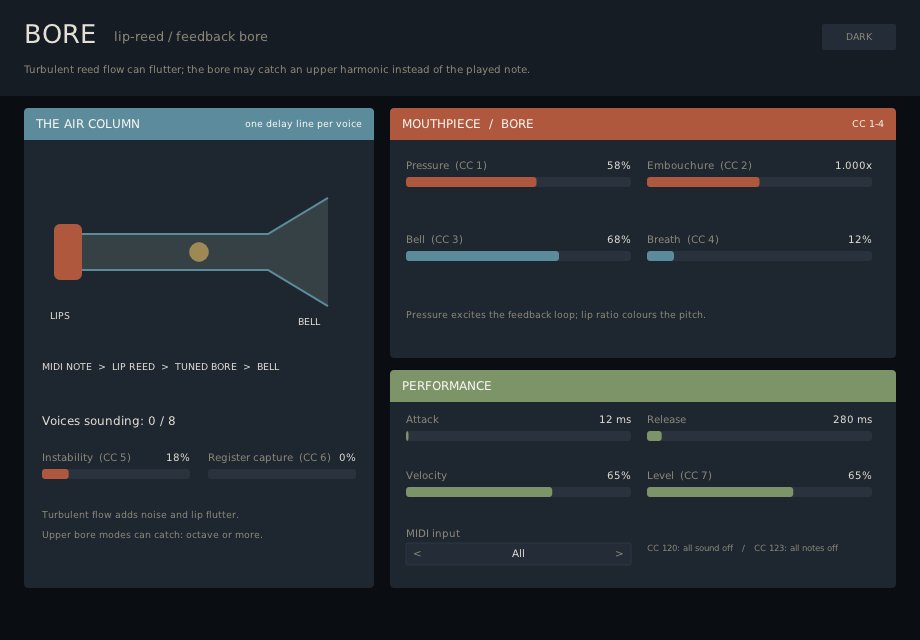
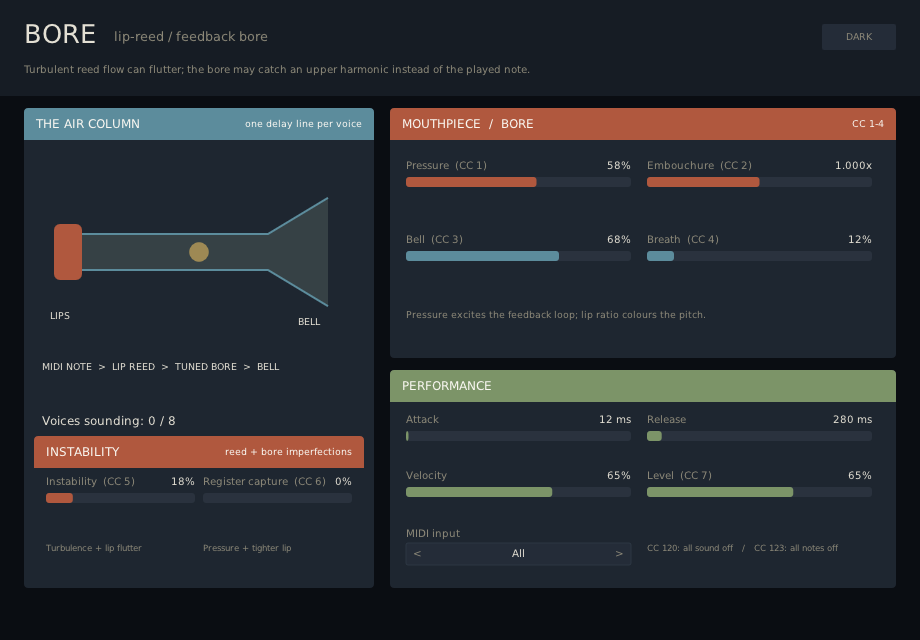
tweaks

Changed region(s): [[0.0304, 0.6562, 0.3957, 0.875], [0.2739, 0.8438, 0.3043, 0.875]]

diff --git a/plugins/bore/src/bore_engine.cpp b/plugins/bore/src/bore_engine.cpp
@@ -114,6 +114,10 @@ void Engine::noteOn(const int note, const int velocity, const std::uint8_t chann
     voice.boreFilter = 0.0f;
     voice.breathFilter = 0.0f;
     voice.flutterFilter = 0.0f;
+    voice.reedOpening = 0.48f;
+    voice.previousFlow = 0.0f;
+    voice.flowHighpass = 0.0f;
+    voice.flowInitialized = false;
     voice.lipPhase = 0.0;
     voice.writeIndex = 0;
     voice.samplesWritten = 0;
@@ -147,6 +151,10 @@ void Engine::allSoundOff(const std::uint8_t channel) noexcept
         voice.boreFilter = 0.0f;
         voice.breathFilter = 0.0f;
         voice.flutterFilter = 0.0f;
+        voice.reedOpening = 0.48f;
+        voice.previousFlow = 0.0f;
+        voice.flowHighpass = 0.0f;
+        voice.flowInitialized = false;
         voice.writeIndex = 0;
         voice.samplesWritten = 0;
     }
@@ -236,6 +244,9 @@ void Engine::renderSegment(float* const left, float* const right, const std::uin
         const float boreCoefficient = onePoleCoefficient(cutoff, sr);
         const float breathCoefficient = onePoleCoefficient(static_cast<float>(std::min(7000.0, sr * 0.35)), sr);
         const float flutterCoefficient = onePoleCoefficient(static_cast<float>(std::min(12.0, sr * 0.1)), sr);
+        const float flutterNormalization = std::sqrt(3.0f * (2.0f - flutterCoefficient) / flutterCoefficient);
+        const float reedOpeningCoefficient = onePoleCoefficient(static_cast<float>(std::min(1800.0, sr * 0.35)), sr);
+        const float flowBlockerCoefficient = 1.0f - onePoleCoefficient(static_cast<float>(std::min(5.0, sr * 0.1)), sr);
         float sample = 0.0f;
 
         for (Voice& voice : voices_) {
@@ -270,10 +281,10 @@ void Engine::renderSegment(float* const left, float* const right, const std::uin
             const float airNoise = noise(voice.random);
             voice.breathFilter += breathCoefficient * (airNoise - voice.breathFilter);
             voice.flutterFilter += flutterCoefficient * (airNoise - voice.flutterFilter);
-            const float flutter = reedInstability_ * (0.08f * voice.flutterFilter + 0.025f * voice.breathFilter);
-            const double registerRatio = 1.0 + 3.0 * static_cast<double>(registerCapture_);
+            const float slowFlutter = voice.flutterFilter * flutterNormalization;
+            const float flutter = reedInstability_ * (0.035f * slowFlutter + 0.012f * voice.breathFilter);
             const double lipFrequency = std::min(frequency * static_cast<double>(embouchure_) *
-                                                     registerRatio * (1.0 + static_cast<double>(flutter)),
+                                                     (1.0 + static_cast<double>(flutter)),
                                                  sr * 0.45);
             const float lip = static_cast<float>(std::sin(voice.lipPhase));
             voice.lipPhase += 2.0 * kPi * lipFrequency / sr;
@@ -282,17 +293,35 @@ void Engine::renderSegment(float* const left, float* const right, const std::uin
             const float drive = 1.0f + pressure_ * 5.0f;
             const float mouthPressure = pressure_ * voice.velocity;
             const float borePressure = std::clamp(voice.boreFilter * 2.0f, 0.0f, mouthPressure);
-            const float aperture = std::clamp(0.48f + 0.36f * lip +
-                                                  reedInstability_ * 0.12f * voice.flutterFilter,
-                                              0.02f, 0.98f);
+            const float pressureDrive = std::clamp((mouthPressure - 0.18f) / 0.55f, 0.0f, 1.0f);
+            const float embouchureDrive = std::clamp((embouchure_ - 0.8f) / 0.4f, 0.0f, 1.0f);
+            const float captureDrive = registerCapture_ * pressureDrive * embouchureDrive;
+            const float reedRestOpening = 0.48f - 0.18f * captureDrive;
+            const float reedOpeningDepth = 0.36f + 0.52f * captureDrive;
+            const float targetOpening = std::clamp(reedRestOpening + reedOpeningDepth * lip +
+                                                       reedInstability_ * 0.1f * slowFlutter,
+                                                   0.02f, 0.98f);
+            voice.reedOpening += reedOpeningCoefficient * (targetOpening - voice.reedOpening);
+            const float aperture = voice.reedOpening;
             const float flow = aperture * std::sqrt(std::max(0.0f, mouthPressure - borePressure));
             const float unopposedFlow = aperture * std::sqrt(std::max(0.0f, mouthPressure));
             const float acousticLoad = unopposedFlow - flow;
-            const float turbulence = reedInstability_ * 0.12f * voice.breathFilter;
+            float acousticFlow = 0.0f;
+            if (!voice.flowInitialized) {
+                voice.previousFlow = flow;
+                voice.flowInitialized = true;
+            } else {
+                voice.flowHighpass = flow - voice.previousFlow +
+                                     flowBlockerCoefficient * voice.flowHighpass;
+                voice.previousFlow = flow;
+                acousticFlow = voice.flowHighpass;
+            }
+            const float turbulence = reedInstability_ * 0.15f * voice.breathFilter;
             const float reed = std::tanh(drive * lip + 2.5f * acousticLoad +
                                          breath_ * voice.breathFilter * 0.35f + turbulence);
             const float feedback = 0.82f + pressure_ * 0.15f;
-            const float excitation = pressure_ * (0.035f + 0.01f * breath_) * reed;
+            const float excitation = pressure_ * (0.035f + 0.01f * breath_) * reed +
+                                     captureDrive * 0.08f * acousticFlow;
             voice.bore[voice.writeIndex] = excitation + feedback * voice.boreFilter;
             voice.writeIndex = (voice.writeIndex + 1) % static_cast<std::uint32_t>(kMaxDelaySamples);
             voice.samplesWritten = std::min(voice.samplesWritten + 1, static_cast<std::uint32_t>(kMaxDelaySamples));

diff --git a/plugins/bore/tests/bore_core_tests.cpp b/plugins/bore/tests/bore_core_tests.cpp
@@ -64,6 +64,14 @@ float peak(const std::vector<float>& audio, const std::size_t begin, const std::
     return result;
 }
 
+float maxStep(const std::vector<float>& audio)
+{
+    float result = 0.0f;
+    for (std::size_t i = 1; i < audio.size(); ++i)
+        result = std::max(result, std::abs(audio[i] - audio[i - 1]));
+    return result;
+}
+
 double amplitudeAt(const std::vector<float>& audio, const std::size_t begin, const std::size_t count, const double hz)
 {
     double real = 0.0;
@@ -82,6 +90,18 @@ double rms(const std::vector<float>& samples, const std::size_t begin, const std
     for (std::size_t i = begin; i < std::min(end, samples.size()); ++i)
         sum += static_cast<double>(samples[i]) * samples[i];
     return std::sqrt(sum / static_cast<double>(end - begin));
+}
+
+double rmsDifference(const std::vector<float>& a, const std::vector<float>& b,
+                     const std::size_t begin, const std::size_t end)
+{
+    const std::size_t count = std::min({end, a.size(), b.size()}) - begin;
+    double sum = 0.0;
+    for (std::size_t i = begin; i < begin + count; ++i) {
+        const double difference = static_cast<double>(a[i] - b[i]);
+        sum += difference * difference;
+    }
+    return std::sqrt(sum / static_cast<double>(count));
 }
 
 Audio renderWithParameter(const ParamId parameter, const float value)
@@ -123,19 +143,47 @@ void testPitchedVoiceAndVelocity()
     const double subharmonic = amplitudeAt(audio.left, 2048, 4096, 130.812782);
     assert(fundamental > subharmonic * 2.0);
 
-    Engine captured;
-    captured.setParameter(id(ParamId::registerCapture), 1.0f / 3.0f);
-    captured.activate(kSampleRate);
-    const Audio upperRegister = render(captured, 112, {noteOn(60)});
-    const double capturedFundamental = amplitudeAt(upperRegister.left, 2048, 4096, 261.625565);
-    const double capturedSecond = amplitudeAt(upperRegister.left, 2048, 4096, 523.25113);
-    const double defaultSecond = amplitudeAt(audio.left, 2048, 4096, 523.25113);
-    assert(capturedSecond / capturedFundamental > 1.5 * defaultSecond / fundamental);
-
     Engine quiet;
     quiet.activate(kSampleRate);
     const Audio soft = render(quiet, 112, {noteOn(60, 20)});
     assert(rms(soft.left, 2048, 6144) < rms(audio.left, 2048, 6144));
+}
+
+void testRegisterCaptureRequiresPressureAndEmbouchure()
+{
+    Engine captureBaseline;
+    captureBaseline.setParameter(id(ParamId::pressure), 1.0f);
+    captureBaseline.setParameter(id(ParamId::embouchure), 1.2f);
+    captureBaseline.activate(kSampleRate);
+    const Audio baseRegister = render(captureBaseline, 112, {noteOn(60)});
+    Engine captured;
+    captured.setParameter(id(ParamId::pressure), 1.0f);
+    captured.setParameter(id(ParamId::embouchure), 1.2f);
+    captured.setParameter(id(ParamId::registerCapture), 1.0f);
+    captured.activate(kSampleRate);
+    const Audio upperRegister = render(captured, 112, {noteOn(60)});
+    const double baseFundamental = amplitudeAt(baseRegister.left, 2048, 4096, 261.625565);
+    const double baseSecond = amplitudeAt(baseRegister.left, 2048, 4096, 523.25113);
+    const double capturedFundamental = amplitudeAt(upperRegister.left, 2048, 4096, 261.625565);
+    const double capturedSecond = amplitudeAt(upperRegister.left, 2048, 4096, 523.25113);
+    assert(capturedSecond / capturedFundamental > 1.5 * baseSecond / baseFundamental);
+    assert(maxStep(upperRegister.left) < 0.04f);
+
+    for (const auto& condition : std::array<std::pair<float, float>, 2> {{{0.2f, 1.2f}, {1.0f, 0.8f}}}) {
+        Engine plain;
+        Engine withCapture;
+        for (Engine* testEngine : {&plain, &withCapture}) {
+            testEngine->setParameter(id(ParamId::pressure), condition.first);
+            testEngine->setParameter(id(ParamId::embouchure), condition.second);
+        }
+        withCapture.setParameter(id(ParamId::registerCapture), 1.0f);
+        plain.activate(kSampleRate);
+        withCapture.activate(kSampleRate);
+        const Audio unmodified = render(plain, 112, {noteOn(60)});
+        const Audio modified = render(withCapture, 112, {noteOn(60)});
+        for (std::size_t i = 0; i < unmodified.left.size(); ++i)
+            assert(unmodified.left[i] == modified.left[i]);
+    }
 }
 
 void testMIDIChannelAndSampleAccurateOnset()
@@ -204,6 +252,16 @@ void testControlsChangeTheSound()
             difference += std::abs(static_cast<double>(baseline.left[i] - changed.left[i]));
         assert(difference > 1.0);
     }
+
+    const Audio stableReed = renderWithParameter(ParamId::reedInstability, 0.0f);
+    const Audio unstableReed = renderWithParameter(ParamId::reedInstability, 1.0f);
+    assert(rmsDifference(stableReed.left, unstableReed.left, 2048, 6144) >
+           0.02 * rms(stableReed.left, 2048, 6144));
+
+    const Audio captureOff = renderWithParameter(ParamId::registerCapture, 0.0f);
+    const Audio captureOn = renderWithParameter(ParamId::registerCapture, 1.0f);
+    assert(rmsDifference(captureOff.left, captureOn.left, 2048, 6144) >
+           0.02 * rms(captureOff.left, 2048, 6144));
 
     const Audio quiet = renderWithParameter(ParamId::level, 0.0f);
     assert(peak(quiet.left, 0, quiet.left.size()) == 0.0f);
@@ -302,6 +360,7 @@ int main()
 {
     testParameterContract();
     testPitchedVoiceAndVelocity();
+    testRegisterCaptureRequiresPressureAndEmbouchure();
     testMIDIChannelAndSampleAccurateOnset();
     testReleaseAndAllSoundOff();
     testControlsChangeTheSound();

diff --git a/plugins/bore/src/dpf/BoreUI.cpp b/plugins/bore/src/dpf/BoreUI.cpp
@@ -126,14 +126,16 @@ private:
         std::snprintf(status, sizeof(status), "Voices sounding: %d / %d",
                       intValue(idx(core::ParamId::outVoices)), static_cast<int>(core::kVoiceCount));
         label(b.x + 18.0f, b.y + 306.0f, status, false, 14.0f);
-        const float left = b.x + 18.0f;
-        const float right = b.x + 184.0f;
+        const Rect instability {b.x + 10.0f, b.y + 328.0f, b.w - 20.0f, 140.0f};
+        drawPanel(instability, "INSTABILITY", kMouthAccent, "reed + bore imperfections");
+        const float left = instability.x + 12.0f;
+        const float right = instability.x + 169.0f;
         slider(core::ParamId::reedInstability, "Instability  (CC 5)",
-               {left, b.y + 344.0f, 148.0f, 42.0f}, kMouthAccent);
+               {left, instability.y + 40.0f, 149.0f, 42.0f}, kMouthAccent);
         slider(core::ParamId::registerCapture, "Register capture  (CC 6)",
-               {right, b.y + 344.0f, 148.0f, 42.0f}, kBoreAccent);
-        label(left, b.y + 402.0f, "Turbulent flow adds noise and lip flutter.", true, 11.0f);
-        label(left, b.y + 422.0f, "Upper bore modes can catch: octave or more.", true, 11.0f);
+               {right, instability.y + 40.0f, 149.0f, 42.0f}, kBoreAccent);
+        label(left, instability.y + 108.0f, "Turbulence + lip flutter", true, 10.0f);
+        label(right, instability.y + 108.0f, "Pressure + tighter lip", true, 10.0f);
     }
 
     void drawMouthpiece(const Rect b)

diff --git a/plugins/bore/include/bore_engine.hpp b/plugins/bore/include/bore_engine.hpp
@@ -39,6 +39,10 @@ private:
         float boreFilter = 0.0f;
         float breathFilter = 0.0f;
         float flutterFilter = 0.0f;
+        float reedOpening = 0.48f;
+        float previousFlow = 0.0f;
+        float flowHighpass = 0.0f;
+        bool flowInitialized = false;
         double lipPhase = 0.0;
         std::uint32_t writeIndex = 0;
         std::uint32_t samplesWritten = 0;

diff --git a/plugins/bore/docs/development.md b/plugins/bore/docs/development.md
@@ -25,8 +25,8 @@ Each control was tied to a signal-path decision before the UI was drawn:
 - Embouchure changes the lip oscillator frequency relative to the bore.
 - Bell controls the feedback low-pass cutoff; Breath adds filtered noise.
 - Reed Instability adds turbulent-flow noise and slow lip flutter.
-- Register Capture raises the reed resonance toward upper bore modes, allowing
-  nonlinear feedback to favor a harmonic above the played note.
+- Register Capture feeds more AC reed flow into the bore; high pressure and
+  tighter embouchure can let a nonlinear upper mode catch.
 - Attack and Release shape a per-note envelope; Velocity controls sensitivity.
 - Level and MIDI In are ordinary host parameters.
 
@@ -46,12 +46,13 @@ The loop delay is `sampleRate / frequency`, with note frequency bounded to
 20 Hz-12 kHz and the delay bounded by the fixed buffer. A nonlinear reed
 aperture gates Bernoulli-style airflow from the pressure difference between the
 mouth and reflected bore wave. Reed Instability adds filtered turbulent flow
-and slow aperture/frequency flutter. Register Capture shifts reed resonance
-from the fundamental toward the fourth bore mode; the feedback delay supplies
-the resonant modes rather than directly transposing the MIDI note. Bell maps to
-a low-pass cutoff from 900 Hz to the lesser of 15 kHz and 42% of sample rate.
-These are sound-design approximations, not measured brass acoustics; describe
-that distinction anywhere the UI or docs explain the model.
+and slow aperture/frequency flutter. Register Capture adds the AC component of
+reed flow to the bore after removing its slow mean; its strength depends on
+mouth pressure and Embouchure, so upper modes can catch without directly
+transposing the MIDI note. Bell maps to a low-pass cutoff from 900 Hz to the
+lesser of 15 kHz and 42% of sample rate. These are sound-design approximations,
+not measured brass acoustics; describe that distinction anywhere the UI or
+docs explain the model.
 
 Attack reaches about 99% over its displayed time. Release falls by about 60 dB
 over its displayed time, then the voice is retired below the -100 dB runtime
@@ -68,7 +69,8 @@ The core suite checks:
 - note velocity, envelope release, controller mapping, channel filtering and
   all-sound-off behavior;
 - audible effects of Reed Instability and Register Capture, including increased
-  second-harmonic energy when the reed is tuned near the second bore mode;
+  second-harmonic energy at high pressure/tighter Embouchure and no capture when
+  mouth pressure is below the onset threshold or Embouchure is at its loose limit;
 - that the tone controls change rendered audio, not just stored parameter
   values;
 - finite, bounded output with eight voices at a high sample rate and maximum

diff --git a/plugins/bore/README.md b/plugins/bore/README.md
@@ -13,7 +13,7 @@ It has no input audio, samples, external dependencies or reported latency.
 | Bell | 0-100% | 68% | Opens the bore's feedback low-pass for a brighter tone. CC 3. |
 | Breath | 0-100% | 12% | Adds filtered noise to the reed excitation. CC 4. |
 | Reed Instability | 0-100% | 18% | Adds turbulent-flow noise and slow lip flutter. CC 5. |
-| Register Capture | 0-100% | 0% | Raises the reed's resonance from the bore fundamental toward its fourth mode; the coupled bore may lock to an upper harmonic. CC 6. |
+| Register Capture | 0-100% | 0% | Couples nonlinear reed airflow into the bore. High pressure and tighter embouchure can let an upper mode catch. CC 6. |
 | Attack | 1-1000 ms | 12 ms | Rise time to near-full level. |
 | Release | 20-4000 ms | 280 ms | Exponential release time. |
 | Velocity | 0-100% | 65% | Sensitivity: zero ignores note velocity, full uses it proportionally. |
@@ -22,9 +22,11 @@ It has no input audio, samples, external dependencies or reported latency.
 
 The interface sketches the air column so the signal path is explicit. The reed's
 nonlinear pressure-flow relation is coupled to a damped delay waveguide; turbulent
-air and lip flutter can destabilize the tone, while Register Capture biases the
-reed resonance toward upper bore modes. These controls describe a physical
-mechanism, not a calibrated prediction of when a real instrument will overblow.
+air and lip flutter can destabilize the tone, while Register Capture feeds more
+of the reed's AC airflow into the bore. High pressure and tighter embouchure make
+upper-mode capture more likely without directly transposing the played note.
+These controls describe a physical mechanism, not a calibrated prediction of
+when a real instrument will overblow.
 The portable engine is in `include/` and `src/`; DPF is only the VST3 shell.
 
 Core tests and the VST3 target build locally. Listening and host validation in a

diff --git a/docs/pages/_products/bore.md b/docs/pages/_products/bore.md
@@ -17,10 +17,11 @@ Bore couples nonlinear reed flow to a damped, pitch-tuned waveguide. Pressure
 changes reed drive and loop sustain, Embouchure moves the reed resonance relative
 to the bore, Bell changes feedback damping, and Breath adds filtered noise. Reed
 Instability adds turbulent-flow noise and slow lip flutter. Register Capture
-biases the reed resonance toward upper bore modes, where nonlinear coupling can
-catch a harmonic above the played note. It is a compact physical sound-design
-model, not a calibrated trumpet simulation. There are eight MIDI voices, an
-Attack/Release envelope, velocity sensitivity and a channel filter.
+couples more of the nonlinear reed airflow into the bore; high pressure and
+tighter embouchure can let an upper mode catch without directly transposing the
+played note. It is a compact physical sound-design model, not a calibrated
+trumpet simulation. There are eight MIDI voices, an Attack/Release envelope,
+velocity sensitivity and a channel filter.
 
 CC 1-6 control Pressure, Embouchure, Bell, Breath, Reed Instability and Register
 Capture; CC 7 controls Level.

diff --git a/docs/pages/plugins-summary.md b/docs/pages/plugins-summary.md
@@ -438,10 +438,11 @@ silences it.
 Eight-voice MIDI instrument with a driven lip-like oscillator exciting a note-tuned
 feedback delay; Pressure controls drive and loop sustain, Embouchure detunes the reed,
 Bell changes feedback damping, and Breath adds filtered noise. Reed Instability adds
-turbulent-flow noise and lip flutter; Register Capture biases the reed toward upper
-bore modes that can catch above the played note. CC 1-6 map in that order and CC 7
-is Level. A compact, nonlinear waveguide model, not a calibrated brass simulation.
-No transport or audio input.
+turbulent-flow noise and lip flutter; Register Capture couples nonlinear airflow
+more strongly into the waveguide. Upper-mode capture depends on Pressure and
+Embouchure and does not directly transpose the played note. CC 1-6 map in that
+order and CC 7 is Level. A compact, nonlinear waveguide model, not a calibrated
+brass simulation. No transport or audio input.
 
 ### canticle
 Twelve-voice instrument with keys, reed, pad, pluck and glass timbres for melody,

diff --git a/TODO.md b/TODO.md
@@ -147,8 +147,8 @@ are what the core tests never touch.
 
 - **Bore** host audition in REAPER: check the playable range and level, confirm
   Pressure/Embouchure/Bell/Breath, Reed Instability, and Register Capture are
-  musically useful (CC 1-6), especially whether upper-mode capture sounds
-  plausible, and save/reopen a project. The core suite and VST3 build pass; it
+  musically useful (CC 1-6); try upper-mode capture with high pressure and tight
+  embouchure, and save/reopen a project. The core suite and VST3 build pass; it
   has not yet been heard in a host.
 - `skream` **Morph LP-HP** (bipolar, default off): not yet listened to in a host; try it with Drift
   on Cutoff. Decisions worth a listen: the morph weight follows cutoff position linearly (t = 0.5
